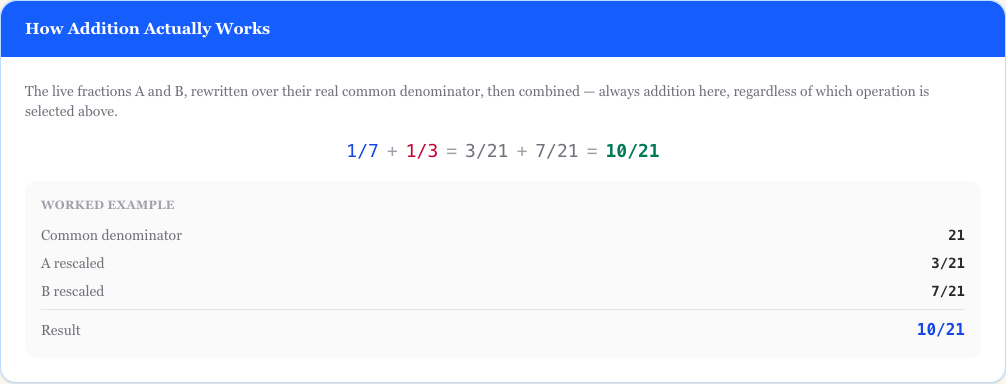
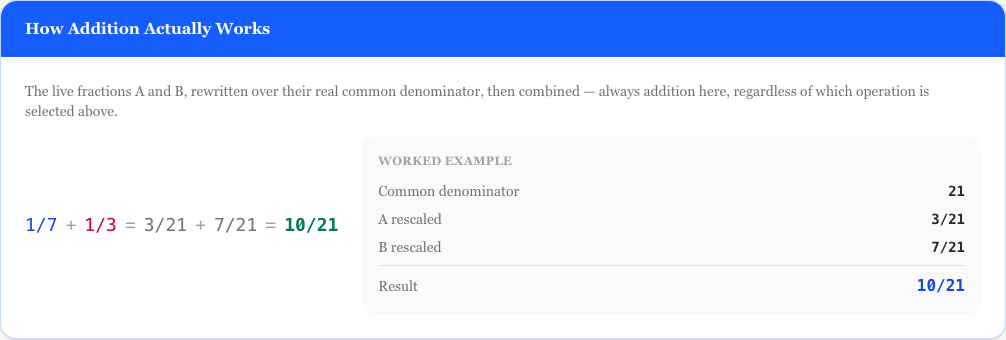
fix(fraction-calculator): move WORKED EXAMPLE boxes beside their charts, not below (§32)
Same §32 compliance fix as scientific-calculator (prior commit) — 13 of 15
indicators needed repositioning (2 already compliant, 1 hero has no
worked-example box by design). Pure layout restructuring. Re-verified lint/
typecheck, the dynamism test, and the gaps test still pass, and recaptured
all 9 screenshots.

Claude-Session: https://claude.ai/code/session_0144AFRAUtGLwXCU9rnJHFc2

diff --git a/apps/web/components/tools/fraction-calculator/FractionUnitFractionsTable.tsx b/apps/web/components/tools/fraction-calculator/FractionUnitFractionsTable.tsx
@@ -21,31 +21,31 @@ export default function FractionUnitFractionsTable() {
   return (
     <SectionCard title={t("title", { denom })}>
       <p className="text-sm text-zinc-500 dark:text-zinc-400">{t("intro", { denom })}</p>
-      <div dir="ltr" className="mt-4 overflow-x-auto">
-        <table className="w-full min-w-[280px] border-collapse text-sm">
-          <thead>
-            <tr className="border-b border-zinc-200 text-start dark:border-zinc-700">
-              <th className="px-3 py-2 text-start font-semibold">{t("columnFraction")}</th>
-              <th className="px-3 py-2 text-start font-semibold">{t("columnDecimal")}</th>
-              <th className="px-3 py-2 text-start font-semibold">{t("columnMatch")}</th>
-            </tr>
-          </thead>
-          <tbody>
-            {Array.from({ length: rowCount }).map((_, i) => {
-              const n = i + 1;
-              const isMatch = n === Math.round(dims.numeratorA) && denom === Math.round(dims.denominatorA);
-              return (
-                <tr key={n} className={`border-b border-zinc-100 dark:border-zinc-800 ${isMatch ? "bg-blue-50 dark:bg-blue-500/10" : ""}`}>
-                  <td className={`px-3 py-2 font-mono ${isMatch ? "font-bold text-blue-700 dark:text-blue-300" : ""}`}>{`${n}/${denom}`}</td>
-                  <td className="px-3 py-2 font-mono">{round3(n / denom)}</td>
-                  <td className="px-3 py-2 font-semibold text-blue-700 dark:text-blue-300">{isMatch ? t("matchMarker") : ""}</td>
-                </tr>
-              );
-            })}
-          </tbody>
-        </table>
-      </div>
-      <div className="mt-4">
+      <div className="mt-4 flex flex-col gap-6 lg:flex-row lg:items-center">
+        <div dir="ltr" className="shrink-0 overflow-x-auto">
+          <table className="w-full min-w-[280px] border-collapse text-sm">
+            <thead>
+              <tr className="border-b border-zinc-200 text-start dark:border-zinc-700">
+                <th className="px-3 py-2 text-start font-semibold">{t("columnFraction")}</th>
+                <th className="px-3 py-2 text-start font-semibold">{t("columnDecimal")}</th>
+                <th className="px-3 py-2 text-start font-semibold">{t("columnMatch")}</th>
+              </tr>
+            </thead>
+            <tbody>
+              {Array.from({ length: rowCount }).map((_, i) => {
+                const n = i + 1;
+                const isMatch = n === Math.round(dims.numeratorA) && denom === Math.round(dims.denominatorA);
+                return (
+                  <tr key={n} className={`border-b border-zinc-100 dark:border-zinc-800 ${isMatch ? "bg-blue-50 dark:bg-blue-500/10" : ""}`}>
+                    <td className={`px-3 py-2 font-mono ${isMatch ? "font-bold text-blue-700 dark:text-blue-300" : ""}`}>{`${n}/${denom}`}</td>
+                    <td className="px-3 py-2 font-mono">{round3(n / denom)}</td>
+                    <td className="px-3 py-2 font-semibold text-blue-700 dark:text-blue-300">{isMatch ? t("matchMarker") : ""}</td>
+                  </tr>
+                );
+              })}
+            </tbody>
+          </table>
+        </div>
         <WorkedExampleNote
           title={t("worked.title")}
           rows={[

diff --git a/apps/web/components/tools/fraction-calculator/FractionReciprocalBalance.tsx b/apps/web/components/tools/fraction-calculator/FractionReciprocalBalance.tsx
@@ -27,18 +27,18 @@ export default function FractionReciprocalBalance() {
   return (
     <SectionCard title={t("title")}>
       <p className="text-sm text-zinc-500 dark:text-zinc-400">{t("intro")}</p>
-      <div dir="ltr" className="mt-5">
-        <div className="relative h-2 rounded-full bg-zinc-200 dark:bg-zinc-700">
-          <div className="absolute left-1/2 top-1/2 h-4 w-0.5 -translate-x-1/2 -translate-y-1/2 bg-zinc-400 dark:bg-zinc-500" />
-          <div className="absolute top-1/2 h-4 w-4 -translate-y-1/2 -translate-x-1/2 rounded-full border-2 border-white bg-rose-600 transition-all duration-300 dark:border-zinc-900" style={{ left: `${(decB / total) * 100}%` }} />
-          <div className="absolute top-1/2 h-4 w-4 -translate-y-1/2 -translate-x-1/2 rounded-full border-2 border-white bg-blue-600 transition-all duration-300 dark:border-zinc-900" style={{ left: `${(decRecip / total) * 100}%` }} />
+      <div className="mt-5 flex flex-col gap-6 lg:flex-row lg:items-center">
+        <div dir="ltr" className="w-full lg:flex-1">
+          <div className="relative h-2 rounded-full bg-zinc-200 dark:bg-zinc-700">
+            <div className="absolute left-1/2 top-1/2 h-4 w-0.5 -translate-x-1/2 -translate-y-1/2 bg-zinc-400 dark:bg-zinc-500" />
+            <div className="absolute top-1/2 h-4 w-4 -translate-y-1/2 -translate-x-1/2 rounded-full border-2 border-white bg-rose-600 transition-all duration-300 dark:border-zinc-900" style={{ left: `${(decB / total) * 100}%` }} />
+            <div className="absolute top-1/2 h-4 w-4 -translate-y-1/2 -translate-x-1/2 rounded-full border-2 border-white bg-blue-600 transition-all duration-300 dark:border-zinc-900" style={{ left: `${(decRecip / total) * 100}%` }} />
+          </div>
+          <div className="mt-2 flex justify-between text-sm font-semibold">
+            <span className="text-rose-700 dark:text-rose-400">{`B = ${dims.numeratorB}/${dims.denominatorB}`}</span>
+            <span className="text-blue-700 dark:text-blue-400">{`1/B = ${dims.denominatorB}/${dims.numeratorB}`}</span>
+          </div>
         </div>
-        <div className="mt-2 flex justify-between text-sm font-semibold">
-          <span className="text-rose-700 dark:text-rose-400">{`B = ${dims.numeratorB}/${dims.denominatorB}`}</span>
-          <span className="text-blue-700 dark:text-blue-400">{`1/B = ${dims.denominatorB}/${dims.numeratorB}`}</span>
-        </div>
-      </div>
-      <div className="mt-4">
         <WorkedExampleNote
           title={t("worked.title")}
           rows={[

diff --git a/apps/web/components/tools/fraction-calculator/FractionDivisionFlipDiagram.tsx b/apps/web/components/tools/fraction-calculator/FractionDivisionFlipDiagram.tsx
@@ -19,14 +19,14 @@ export default function FractionDivisionFlipDiagram() {
   return (
     <SectionCard title={t("title")}>
       <p className="text-sm text-zinc-500 dark:text-zinc-400">{t("intro")}</p>
-      <div dir="ltr" className="mt-4 flex flex-wrap items-center justify-center gap-2 text-center">
-        <div className="rounded-xl border border-zinc-200 bg-zinc-50 px-4 py-3 font-mono text-base dark:border-zinc-700 dark:bg-zinc-800/40">{`${dims.numeratorA}/${dims.denominatorA} ÷ ${dims.numeratorB}/${dims.denominatorB}`}</div>
-        <ArrowRight className="shrink-0 text-blue-500" size={20} />
-        <div className="rounded-xl border border-blue-200 bg-blue-50 px-4 py-3 font-mono text-base text-blue-700 dark:border-blue-500/30 dark:bg-blue-500/10 dark:text-blue-300">{`${dims.numeratorA}/${dims.denominatorA} × ${dims.denominatorB}/${dims.numeratorB}`}</div>
-        <ArrowRight className="shrink-0 text-blue-500" size={20} />
-        <div className="rounded-xl border border-emerald-200 bg-emerald-50 px-4 py-3 font-mono text-base font-bold text-emerald-700 dark:border-emerald-500/30 dark:bg-emerald-500/10 dark:text-emerald-400">{`${result.numerator}/${result.denominator}`}</div>
-      </div>
-      <div className="mt-4">
+      <div className="mt-4 flex flex-col gap-6 lg:flex-row lg:items-center">
+        <div dir="ltr" className="flex shrink-0 flex-wrap items-center justify-center gap-2 text-center">
+          <div className="rounded-xl border border-zinc-200 bg-zinc-50 px-4 py-3 font-mono text-base dark:border-zinc-700 dark:bg-zinc-800/40">{`${dims.numeratorA}/${dims.denominatorA} ÷ ${dims.numeratorB}/${dims.denominatorB}`}</div>
+          <ArrowRight className="shrink-0 text-blue-500" size={20} />
+          <div className="rounded-xl border border-blue-200 bg-blue-50 px-4 py-3 font-mono text-base text-blue-700 dark:border-blue-500/30 dark:bg-blue-500/10 dark:text-blue-300">{`${dims.numeratorA}/${dims.denominatorA} × ${dims.denominatorB}/${dims.numeratorB}`}</div>
+          <ArrowRight className="shrink-0 text-blue-500" size={20} />
+          <div className="rounded-xl border border-emerald-200 bg-emerald-50 px-4 py-3 font-mono text-base font-bold text-emerald-700 dark:border-emerald-500/30 dark:bg-emerald-500/10 dark:text-emerald-400">{`${result.numerator}/${result.denominator}`}</div>
+        </div>
         <WorkedExampleNote
           title={t("worked.title")}
           rows={[

diff --git a/apps/web/components/tools/fraction-calculator/FractionOperationFlowDiagram.tsx b/apps/web/components/tools/fraction-calculator/FractionOperationFlowDiagram.tsx
@@ -20,14 +20,14 @@ export default function FractionOperationFlowDiagram() {
   return (
     <SectionCard title={t("title")}>
       <p className="text-sm text-zinc-500 dark:text-zinc-400">{t("intro", { operation: t(`opNames.${dims.operation}`) })}</p>
-      <div dir="ltr" className="mt-4 flex flex-wrap items-center justify-center gap-2 text-center">
-        <div className="rounded-xl border border-blue-200 bg-blue-50 px-4 py-3 font-mono text-base text-blue-700 dark:border-blue-500/30 dark:bg-blue-500/10 dark:text-blue-300">{`${dims.numeratorA}/${dims.denominatorA}`}</div>
-        <span className="text-lg font-bold text-zinc-500">{OP_SYMBOL[dims.operation]}</span>
-        <div className="rounded-xl border border-rose-200 bg-rose-50 px-4 py-3 font-mono text-base text-rose-700 dark:border-rose-500/30 dark:bg-rose-500/10 dark:text-rose-300">{`${dims.numeratorB}/${dims.denominatorB}`}</div>
-        <ArrowRight className="shrink-0 text-zinc-400" size={20} />
-        <div className="rounded-xl border border-emerald-200 bg-emerald-50 px-4 py-3 font-mono text-base font-bold text-emerald-700 dark:border-emerald-500/30 dark:bg-emerald-500/10 dark:text-emerald-400">{`${result.numerator}/${result.denominator}`}</div>
-      </div>
-      <div className="mt-4">
+      <div className="mt-4 flex flex-col gap-6 lg:flex-row lg:items-center">
+        <div dir="ltr" className="flex shrink-0 flex-wrap items-center justify-center gap-2 text-center">
+          <div className="rounded-xl border border-blue-200 bg-blue-50 px-4 py-3 font-mono text-base text-blue-700 dark:border-blue-500/30 dark:bg-blue-500/10 dark:text-blue-300">{`${dims.numeratorA}/${dims.denominatorA}`}</div>
+          <span className="text-lg font-bold text-zinc-500">{OP_SYMBOL[dims.operation]}</span>
+          <div className="rounded-xl border border-rose-200 bg-rose-50 px-4 py-3 font-mono text-base text-rose-700 dark:border-rose-500/30 dark:bg-rose-500/10 dark:text-rose-300">{`${dims.numeratorB}/${dims.denominatorB}`}</div>
+          <ArrowRight className="shrink-0 text-zinc-400" size={20} />
+          <div className="rounded-xl border border-emerald-200 bg-emerald-50 px-4 py-3 font-mono text-base font-bold text-emerald-700 dark:border-emerald-500/30 dark:bg-emerald-500/10 dark:text-emerald-400">{`${result.numerator}/${result.denominator}`}</div>
+        </div>
         <WorkedExampleNote
           title={t("worked.title")}
           rows={[

diff --git a/apps/web/components/tools/fraction-calculator/FractionBenchmarkZoneStrip.tsx b/apps/web/components/tools/fraction-calculator/FractionBenchmarkZoneStrip.tsx
@@ -34,20 +34,20 @@ export default function FractionBenchmarkZoneStrip() {
   return (
     <SectionCard title={t("title")}>
       <p className="text-sm text-zinc-500 dark:text-zinc-400">{t("intro")}</p>
-      <div dir="ltr" className="mt-6 w-full">
-        <div className="relative h-3 w-full overflow-hidden rounded-full">
-          <div className="absolute inset-y-0 left-0 w-1/2 bg-amber-300/70 dark:bg-amber-500/50" />
-          <div className="absolute inset-y-0 left-1/2 w-1/2 bg-emerald-300/70 dark:bg-emerald-500/50" />
-          <div className="absolute top-1/2 h-4 w-1.5 -translate-y-1/2 rounded-full bg-blue-700 transition-all duration-300 dark:bg-blue-300" style={{ left: `calc(${pctA}% - 3px)` }} />
-          <div className="absolute top-1/2 h-4 w-1.5 -translate-y-1/2 rounded-full bg-rose-700 transition-all duration-300 dark:bg-rose-300" style={{ left: `calc(${pctB}% - 3px)` }} />
+      <div className="mt-6 flex flex-col gap-6 lg:flex-row lg:items-center">
+        <div dir="ltr" className="w-full lg:flex-1">
+          <div className="relative h-3 w-full overflow-hidden rounded-full">
+            <div className="absolute inset-y-0 left-0 w-1/2 bg-amber-300/70 dark:bg-amber-500/50" />
+            <div className="absolute inset-y-0 left-1/2 w-1/2 bg-emerald-300/70 dark:bg-emerald-500/50" />
+            <div className="absolute top-1/2 h-4 w-1.5 -translate-y-1/2 rounded-full bg-blue-700 transition-all duration-300 dark:bg-blue-300" style={{ left: `calc(${pctA}% - 3px)` }} />
+            <div className="absolute top-1/2 h-4 w-1.5 -translate-y-1/2 rounded-full bg-rose-700 transition-all duration-300 dark:bg-rose-300" style={{ left: `calc(${pctB}% - 3px)` }} />
+          </div>
+          <div className="mt-1 flex justify-between text-[10px] font-semibold uppercase tracking-wide text-zinc-400 dark:text-zinc-500">
+            <span>0</span>
+            <span>½</span>
+            <span>1</span>
+          </div>
         </div>
-        <div className="mt-1 flex justify-between text-[10px] font-semibold uppercase tracking-wide text-zinc-400 dark:text-zinc-500">
-          <span>0</span>
-          <span>½</span>
-          <span>1</span>
-        </div>
-      </div>
-      <div className="mt-6">
         <WorkedExampleNote
           title={t("worked.title")}
           rows={[

diff --git a/apps/web/components/tools/fraction-calculator/FractionMixedNumberConversion.tsx b/apps/web/components/tools/fraction-calculator/FractionMixedNumberConversion.tsx
@@ -18,16 +18,16 @@ export default function FractionMixedNumberConversion() {
   return (
     <SectionCard title={t("title")}>
       <p className="text-sm text-zinc-500 dark:text-zinc-400">{t("intro")}</p>
-      {mixed ? (
-        <div dir="ltr" className="mt-4 flex flex-wrap items-center justify-center gap-3 text-center">
-          <div className="rounded-xl border border-zinc-200 bg-zinc-50 px-4 py-3 font-mono text-base dark:border-zinc-700 dark:bg-zinc-800/40">{`${result.numerator}/${result.denominator}`}</div>
-          <span className="text-zinc-400">=</span>
-          <div className="rounded-xl border border-blue-200 bg-blue-50 px-4 py-3 font-mono text-lg font-bold text-blue-700 dark:border-blue-500/30 dark:bg-blue-500/10 dark:text-blue-300">{`${mixed.whole} ${mixed.numerator}/${mixed.denominator}`}</div>
-        </div>
-      ) : (
-        <p className="mt-4 text-center text-sm text-zinc-500 dark:text-zinc-400">{isImproper ? t("isWholeOnly", { value: `${result.numerator / result.denominator}` }) : t("properAlready", { value: `${result.numerator}/${result.denominator}` })}</p>
-      )}
-      <div className="mt-4">
+      <div className="mt-4 flex flex-col gap-6 lg:flex-row lg:items-center">
+        {mixed ? (
+          <div dir="ltr" className="flex shrink-0 flex-wrap items-center justify-center gap-3 text-center">
+            <div className="rounded-xl border border-zinc-200 bg-zinc-50 px-4 py-3 font-mono text-base dark:border-zinc-700 dark:bg-zinc-800/40">{`${result.numerator}/${result.denominator}`}</div>
+            <span className="text-zinc-400">=</span>
+            <div className="rounded-xl border border-blue-200 bg-blue-50 px-4 py-3 font-mono text-lg font-bold text-blue-700 dark:border-blue-500/30 dark:bg-blue-500/10 dark:text-blue-300">{`${mixed.whole} ${mixed.numerator}/${mixed.denominator}`}</div>
+          </div>
+        ) : (
+          <p className="text-center text-sm text-zinc-500 dark:text-zinc-400">{isImproper ? t("isWholeOnly", { value: `${result.numerator / result.denominator}` }) : t("properAlready", { value: `${result.numerator}/${result.denominator}` })}</p>
+        )}
         <WorkedExampleNote
           title={t("worked.title")}
           rows={[

diff --git a/apps/web/components/tools/fraction-calculator/FractionSubtractionMechanicsDiagram.tsx b/apps/web/components/tools/fraction-calculator/FractionSubtractionMechanicsDiagram.tsx
@@ -18,18 +18,18 @@ export default function FractionSubtractionMechanicsDiagram() {
   return (
     <SectionCard title={t("title")}>
       <p className="text-sm text-zinc-500 dark:text-zinc-400">{t("intro")}</p>
-      <div dir="ltr" className="mt-4 flex flex-wrap items-center justify-center gap-2 text-center font-mono text-lg">
-        <span className="text-blue-700 dark:text-blue-300">{`${dims.numeratorA}/${dims.denominatorA}`}</span>
-        <span className="text-zinc-400">−</span>
-        <span className="text-rose-700 dark:text-rose-300">{`${dims.numeratorB}/${dims.denominatorB}`}</span>
-        <span className="text-zinc-400">=</span>
-        <span className="text-zinc-500">{`${scaledNumeratorA}/${commonDenominator}`}</span>
-        <span className="text-zinc-400">−</span>
-        <span className="text-zinc-500">{`${scaledNumeratorB}/${commonDenominator}`}</span>
-        <span className="text-zinc-400">=</span>
-        <span className="font-bold text-emerald-700 dark:text-emerald-400">{`${result.numerator}/${result.denominator}`}</span>
-      </div>
-      <div className="mt-4">
+      <div className="mt-4 flex flex-col gap-6 lg:flex-row lg:items-center">
+        <div dir="ltr" className="flex shrink-0 flex-wrap items-center justify-center gap-2 text-center font-mono text-lg">
+          <span className="text-blue-700 dark:text-blue-300">{`${dims.numeratorA}/${dims.denominatorA}`}</span>
+          <span className="text-zinc-400">−</span>
+          <span className="text-rose-700 dark:text-rose-300">{`${dims.numeratorB}/${dims.denominatorB}`}</span>
+          <span className="text-zinc-400">=</span>
+          <span className="text-zinc-500">{`${scaledNumeratorA}/${commonDenominator}`}</span>
+          <span className="text-zinc-400">−</span>
+          <span className="text-zinc-500">{`${scaledNumeratorB}/${commonDenominator}`}</span>
+          <span className="text-zinc-400">=</span>
+          <span className="font-bold text-emerald-700 dark:text-emerald-400">{`${result.numerator}/${result.denominator}`}</span>
+        </div>
         <WorkedExampleNote
           title={t("worked.title")}
           rows={[

diff --git a/apps/web/components/tools/fraction-calculator/FractionAdditionMechanicsDiagram.tsx b/apps/web/components/tools/fraction-calculator/FractionAdditionMechanicsDiagram.tsx
@@ -18,18 +18,18 @@ export default function FractionAdditionMechanicsDiagram() {
   return (
     <SectionCard title={t("title")}>
       <p className="text-sm text-zinc-500 dark:text-zinc-400">{t("intro")}</p>
-      <div dir="ltr" className="mt-4 flex flex-wrap items-center justify-center gap-2 text-center font-mono text-lg">
-        <span className="text-blue-700 dark:text-blue-300">{`${dims.numeratorA}/${dims.denominatorA}`}</span>
-        <span className="text-zinc-400">+</span>
-        <span className="text-rose-700 dark:text-rose-300">{`${dims.numeratorB}/${dims.denominatorB}`}</span>
-        <span className="text-zinc-400">=</span>
-        <span className="text-zinc-500">{`${scaledNumeratorA}/${commonDenominator}`}</span>
-        <span className="text-zinc-400">+</span>
-        <span className="text-zinc-500">{`${scaledNumeratorB}/${commonDenominator}`}</span>
-        <span className="text-zinc-400">=</span>
-        <span className="font-bold text-emerald-700 dark:text-emerald-400">{`${result.numerator}/${result.denominator}`}</span>
-      </div>
-      <div className="mt-4">
+      <div className="mt-4 flex flex-col gap-6 lg:flex-row lg:items-center">
+        <div dir="ltr" className="flex shrink-0 flex-wrap items-center justify-center gap-2 text-center font-mono text-lg">
+          <span className="text-blue-700 dark:text-blue-300">{`${dims.numeratorA}/${dims.denominatorA}`}</span>
+          <span className="text-zinc-400">+</span>
+          <span className="text-rose-700 dark:text-rose-300">{`${dims.numeratorB}/${dims.denominatorB}`}</span>
+          <span className="text-zinc-400">=</span>
+          <span className="text-zinc-500">{`${scaledNumeratorA}/${commonDenominator}`}</span>
+          <span className="text-zinc-400">+</span>
+          <span className="text-zinc-500">{`${scaledNumeratorB}/${commonDenominator}`}</span>
+          <span className="text-zinc-400">=</span>
+          <span className="font-bold text-emerald-700 dark:text-emerald-400">{`${result.numerator}/${result.denominator}`}</span>
+        </div>
         <WorkedExampleNote
           title={t("worked.title")}
           rows={[

diff --git a/apps/web/components/tools/fraction-calculator/FractionDecimalPercentChain.tsx b/apps/web/components/tools/fraction-calculator/FractionDecimalPercentChain.tsx
@@ -24,14 +24,14 @@ export default function FractionDecimalPercentChain() {
   return (
     <SectionCard title={t("title")}>
       <p className="text-sm text-zinc-500 dark:text-zinc-400">{t("intro")}</p>
-      <div dir="ltr" className="mt-4 flex flex-wrap items-center justify-center gap-2 text-center">
-        <div className="rounded-xl border border-blue-200 bg-blue-50 px-4 py-3 font-mono text-base text-blue-700 dark:border-blue-500/30 dark:bg-blue-500/10 dark:text-blue-300">{`${dims.numeratorA}/${dims.denominatorA}`}</div>
-        <ArrowRight className="shrink-0 text-zinc-400" size={18} />
-        <div className="rounded-xl border border-zinc-200 bg-zinc-50 px-4 py-3 font-mono text-base dark:border-zinc-700 dark:bg-zinc-800/40">{decimal}</div>
-        <ArrowRight className="shrink-0 text-zinc-400" size={18} />
-        <div className="rounded-xl border border-emerald-200 bg-emerald-50 px-4 py-3 font-mono text-base font-bold text-emerald-700 dark:border-emerald-500/30 dark:bg-emerald-500/10 dark:text-emerald-400">{`${percent}%`}</div>
-      </div>
-      <div className="mt-4">
+      <div className="mt-4 flex flex-col gap-6 lg:flex-row lg:items-center">
+        <div dir="ltr" className="flex shrink-0 flex-wrap items-center justify-center gap-2 text-center">
+          <div className="rounded-xl border border-blue-200 bg-blue-50 px-4 py-3 font-mono text-base text-blue-700 dark:border-blue-500/30 dark:bg-blue-500/10 dark:text-blue-300">{`${dims.numeratorA}/${dims.denominatorA}`}</div>
+          <ArrowRight className="shrink-0 text-zinc-400" size={18} />
+          <div className="rounded-xl border border-zinc-200 bg-zinc-50 px-4 py-3 font-mono text-base dark:border-zinc-700 dark:bg-zinc-800/40">{decimal}</div>
+          <ArrowRight className="shrink-0 text-zinc-400" size={18} />
+          <div className="rounded-xl border border-emerald-200 bg-emerald-50 px-4 py-3 font-mono text-base font-bold text-emerald-700 dark:border-emerald-500/30 dark:bg-emerald-500/10 dark:text-emerald-400">{`${percent}%`}</div>
+        </div>
         <WorkedExampleNote
           title={t("worked.title")}
           rows={[

diff --git a/apps/web/components/tools/fraction-calculator/FractionMultiplicationAreaDiagram.tsx b/apps/web/components/tools/fraction-calculator/FractionMultiplicationAreaDiagram.tsx
@@ -25,19 +25,19 @@ export default function FractionMultiplicationAreaDiagram() {
   return (
     <SectionCard title={t("title")}>
       <p className="text-sm text-zinc-500 dark:text-zinc-400">{t("intro")}</p>
-      {canRenderGrid ? (
-        <div dir="ltr" className="mx-auto mt-4 grid w-fit gap-px rounded bg-zinc-200 p-px dark:bg-zinc-700" style={{ gridTemplateColumns: `repeat(${dB}, 18px)` }}>
-          {Array.from({ length: dA * dB }).map((_, i) => {
-            const row = Math.floor(i / dB);
-            const col = i % dB;
-            const shaded = row < nA && col < nB;
-            return <div key={i} className={`h-[18px] w-[18px] ${shaded ? "bg-blue-600/70 dark:bg-blue-400/70" : "bg-white dark:bg-zinc-900"}`} />;
-          })}
-        </div>
-      ) : (
-        <p className="mt-4 text-center text-xs text-zinc-400 dark:text-zinc-500">{t("gridTooLarge")}</p>
-      )}
-      <div className="mt-4">
+      <div className="mt-4 flex flex-col gap-6 lg:flex-row lg:items-center">
+        {canRenderGrid ? (
+          <div dir="ltr" className="mx-auto shrink-0 grid w-fit gap-px rounded bg-zinc-200 p-px dark:bg-zinc-700" style={{ gridTemplateColumns: `repeat(${dB}, 18px)` }}>
+            {Array.from({ length: dA * dB }).map((_, i) => {
+              const row = Math.floor(i / dB);
+              const col = i % dB;
+              const shaded = row < nA && col < nB;
+              return <div key={i} className={`h-[18px] w-[18px] ${shaded ? "bg-blue-600/70 dark:bg-blue-400/70" : "bg-white dark:bg-zinc-900"}`} />;
+            })}
+          </div>
+        ) : (
+          <p className="text-center text-xs text-zinc-400 dark:text-zinc-500">{t("gridTooLarge")}</p>
+        )}
         <WorkedExampleNote
           title={t("worked.title")}
           rows={[

diff --git a/apps/web/components/tools/fraction-calculator/FractionEquivalentChainDiagram.tsx b/apps/web/components/tools/fraction-calculator/FractionEquivalentChainDiagram.tsx
@@ -18,15 +18,15 @@ export default function FractionEquivalentChainDiagram() {
   return (
     <SectionCard title={t("title")}>
       <p className="text-sm text-zinc-500 dark:text-zinc-400">{t("intro")}</p>
-      <div dir="ltr" className="mt-4 flex flex-wrap items-center justify-center gap-2 font-mono text-base">
-        {chain.map((f, i) => (
-          <div key={i} className="flex items-center gap-2">
-            <span className={i === 0 ? "font-bold text-blue-700 dark:text-blue-300" : "text-zinc-600 dark:text-zinc-300"}>{`${f.numerator}/${f.denominator}`}</span>
-            {i < chain.length - 1 && <ArrowRight className="text-zinc-300 dark:text-zinc-600" size={16} />}
-          </div>
-        ))}
-      </div>
-      <div className="mt-4">
+      <div className="mt-4 flex flex-col gap-6 lg:flex-row lg:items-center">
+        <div dir="ltr" className="flex shrink-0 flex-wrap items-center justify-center gap-2 font-mono text-base">
+          {chain.map((f, i) => (
+            <div key={i} className="flex items-center gap-2">
+              <span className={i === 0 ? "font-bold text-blue-700 dark:text-blue-300" : "text-zinc-600 dark:text-zinc-300"}>{`${f.numerator}/${f.denominator}`}</span>
+              {i < chain.length - 1 && <ArrowRight className="text-zinc-300 dark:text-zinc-600" size={16} />}
+            </div>
+          ))}
+        </div>
         <WorkedExampleNote
           title={t("worked.title")}
           rows={chain.map((f, i) => ({ label: i === 0 ? t("worked.original") : t("worked.timesN", { n: MULTIPLIERS[i - 1] }), value: `${f.numerator}/${f.denominator}`, emphasize: i === 0 }))}

diff --git a/apps/web/components/tools/fraction-calculator/FractionSimplificationSteps.tsx b/apps/web/components/tools/fraction-calculator/FractionSimplificationSteps.tsx
@@ -42,14 +42,14 @@ export default function FractionSimplificationSteps() {
   return (
     <SectionCard title={t("title")}>
       <p className="text-sm text-zinc-500 dark:text-zinc-400">{t("intro")}</p>
-      <div dir="ltr" className="mt-4 flex flex-wrap items-center justify-center gap-2 text-center font-mono text-lg">
-        <span className="text-zinc-600 dark:text-zinc-300">{`${rawNumerator}/${rawDenominator}`}</span>
-        <span className="text-zinc-400">÷</span>
-        <span className="text-blue-600 dark:text-blue-400">{`${divisor}/${divisor}`}</span>
-        <span className="text-zinc-400">=</span>
-        <span className="font-bold text-emerald-700 dark:text-emerald-400">{`${result.numerator}/${result.denominator}`}</span>
-      </div>
-      <div className="mt-4">
+      <div className="mt-4 flex flex-col gap-6 lg:flex-row lg:items-center">
+        <div dir="ltr" className="flex shrink-0 flex-wrap items-center justify-center gap-2 text-center font-mono text-lg">
+          <span className="text-zinc-600 dark:text-zinc-300">{`${rawNumerator}/${rawDenominator}`}</span>
+          <span className="text-zinc-400">÷</span>
+          <span className="text-blue-600 dark:text-blue-400">{`${divisor}/${divisor}`}</span>
+          <span className="text-zinc-400">=</span>
+          <span className="font-bold text-emerald-700 dark:text-emerald-400">{`${result.numerator}/${result.denominator}`}</span>
+        </div>
         <WorkedExampleNote
           title={t("worked.title")}
           rows={[
